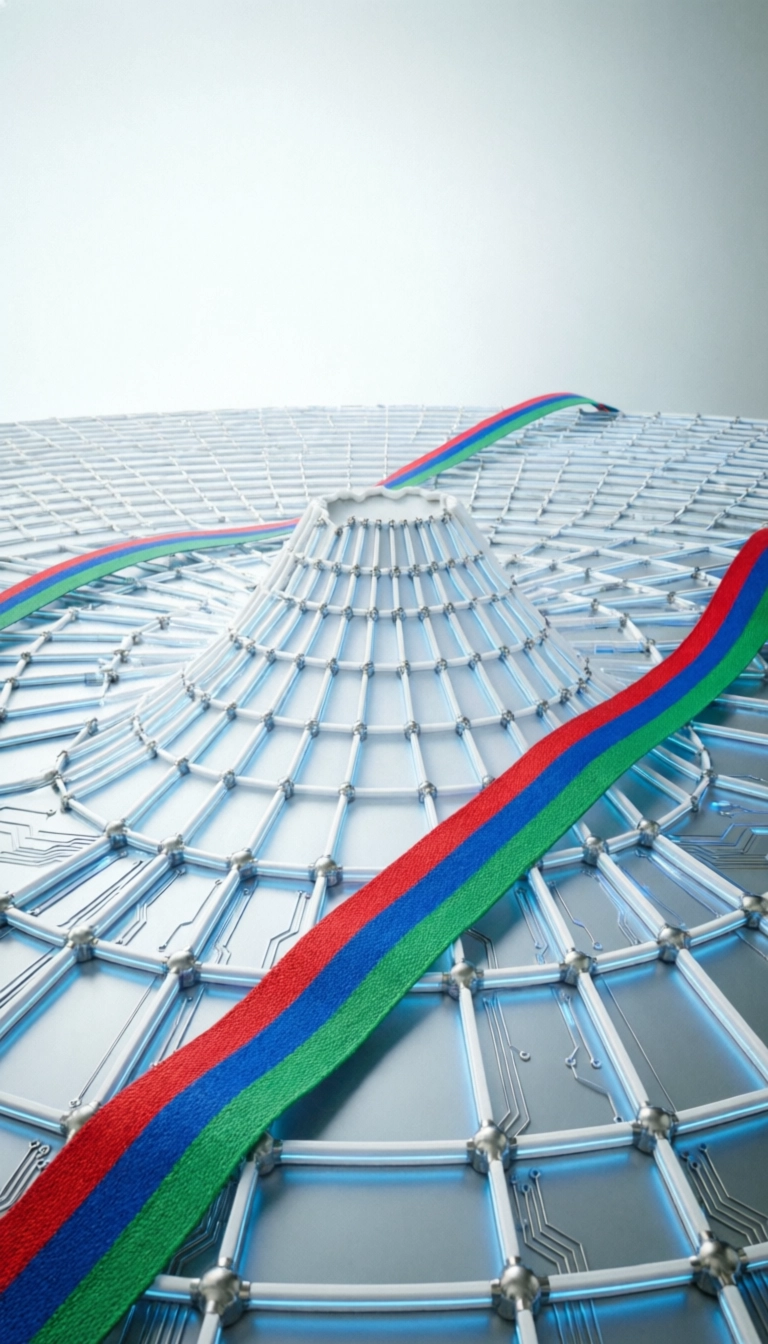
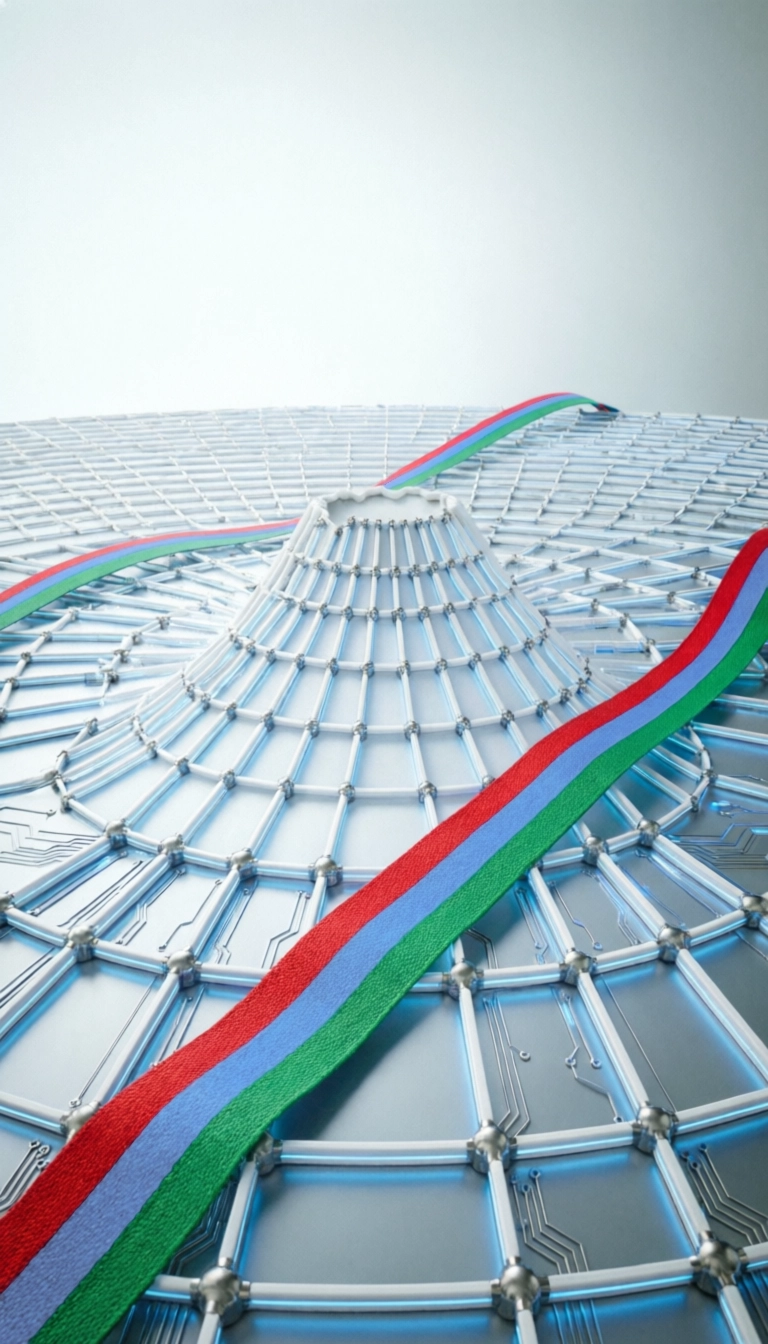
0.2.9 Воицы - Обновление стиля первичной темы установщика;

diff --git a/templates/install/default/styles/main.css b/templates/install/default/styles/main.css
@@ -5,6 +5,12 @@
   border-right: 1px solid var(--common-secondary-color-10);
 }
 
+@media (max-width: 620px) {
+  .main__container {
+    grid-template-columns: 1fr;
+  }
+}
+
 .main__title-container {
   display: flex;
   grid-column: 1 / 3;
@@ -44,6 +50,12 @@
   max-height: 100%;
   max-width: 124px;
   object-fit: cover;
+}
+
+@media (max-width: 620px) {
+  .main__side-image {
+    display: none;
+  }
 }
 
 .main__page-container {
